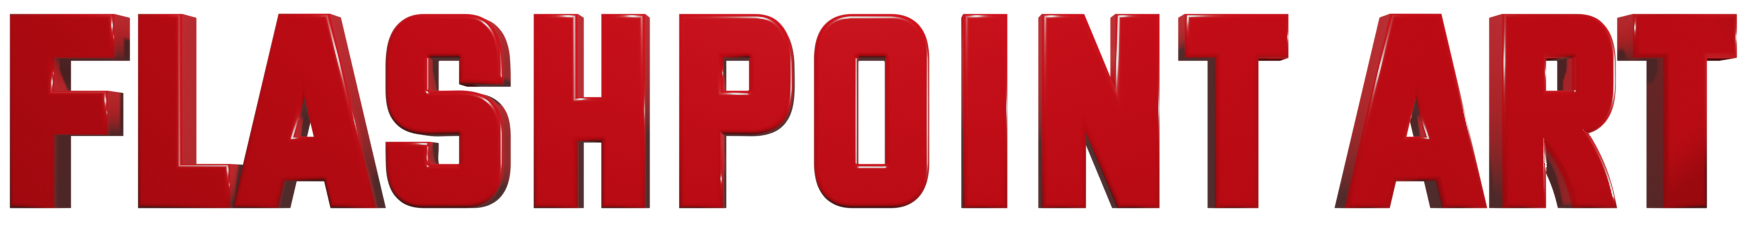
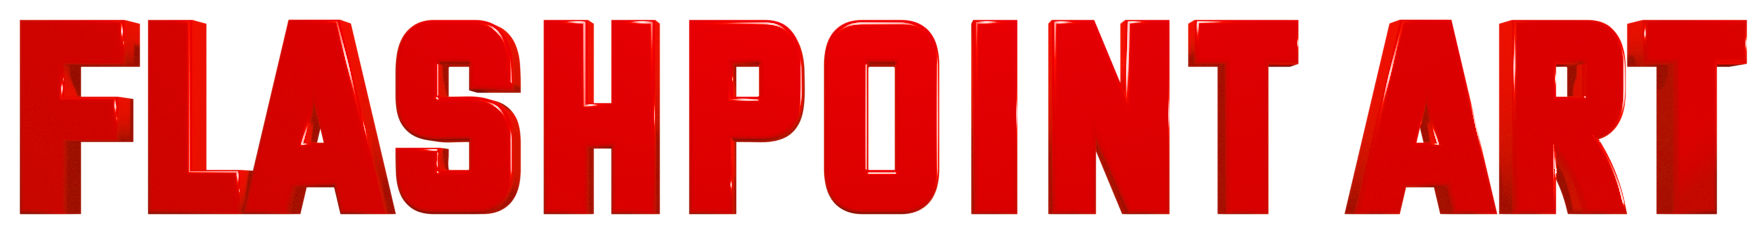
fix 3d

diff --git a/static/js/main.b19a4718.chunk.js b/static/js/main.b19a4718.chunk.js
@@ -1,0 +1,2 @@
+(this.webpackJsonpsito_simone=this.webpackJsonpsito_simone||[]).push([[0],{42:function(e,t,c){},43:function(e,t,c){},45:function(e,t,c){},57:function(e,t,c){"use strict";c.r(t);var n=c(0),s=c.n(n),i=c(14),r=c.n(i),a=(c(42),c(43),c(44),c(59)),l=c(60),j=c(61),o=c(16),b=(c(45),c(1)),d=function(){return Object(b.jsx)(a.a,{fluid:!0,style:{backgroundColor:"#00239C"},children:Object(b.jsxs)(a.a,{children:[Object(b.jsx)(l.a,{children:Object(b.jsx)(j.a,{className:"d-flex justify-content-center mt-5 mb-5 text-center",children:Object(b.jsx)("img",{src:"title.png",alt:"",id:"title"})})}),Object(b.jsxs)(l.a,{className:"pb-5",children:[Object(b.jsx)(j.a,{md:!0,className:"mb-3",children:Object(b.jsx)(o.b,{to:"/",style:{textDecoration:"none"},children:Object(b.jsx)("h6",{className:"text-center",children:"HOME"})})}),Object(b.jsx)(j.a,{md:!0,className:"mb-3",children:Object(b.jsx)(o.b,{to:"/artists",style:{textDecoration:"none"},children:Object(b.jsx)("h6",{className:"text-center",children:"ARTISTI"})})}),Object(b.jsx)(j.a,{md:!0,className:"mb-3",children:Object(b.jsx)(o.b,{to:"/about",style:{textDecoration:"none"},children:Object(b.jsx)("h6",{className:"text-center",children:"CHI SIAMO"})})}),Object(b.jsx)(j.a,{md:!0,children:Object(b.jsx)(o.b,{to:"/contacts",style:{textDecoration:"none"},children:Object(b.jsx)("h6",{className:"text-center",children:"CONTATTI"})})})]})]})})},h=c(6),x=c(24),O=c(8),m=c(25),u=c(26),p=c(63),g=c(64),f=c(62),w=function(){var e=Object(n.useState)({width:void 0,height:void 0}),t=Object(O.a)(e,2),c=t[0],s=t[1];return Object(n.useEffect)((function(){function e(){s({width:window.innerWidth,height:window.innerHeight})}return window.addEventListener("resize",e),e(),function(){return window.removeEventListener("resize",e)}}),[]),c},y=c(33),N=c.n(y),C=function(e){var t=Object(n.useState)(!1),c=Object(O.a)(t,2),s=c[0],i=c[1],r=w(),a=Object(n.useState)(!1),o=Object(O.a)(a,2),d=o[0],h=o[1],x=function(){return h(!1)};return Object(b.jsxs)(b.Fragment,{children:[Object(b.jsxs)(j.a,{className:"mb-4",children:[Object(b.jsx)(N.a,{toggler:s,sources:[e.element.imgSrc]}),Object(b.jsxs)(p.a,{style:{width:"20rem"},children:[Object(b.jsx)(p.a.Img,{onClick:function(){return i((function(e){return!e}))},variant:"top",src:e.element.imgSrc,style:r.width>975?{width:"100%",height:"12vw",objectFit:"cover",cursor:"pointer"}:{cursor:"pointer"}}),Object(b.jsxs)(p.a.Body,{children:[Object(b.jsx)(p.a.Title,{className:"mb-3 mt-3",children:Object(b.jsx)("h5",{children:e.element.title})}),Object(b.jsxs)(p.a.Text,{className:"d-flex justify-content-center",style:{flexDirection:"column"},children:[Object(b.jsxs)("h7",{className:"pb-3",children:["by ",e.element.artist]}),Object(b.jsxs)(g.a,{style:{backgroundColor:"#00239C"},onClick:function(){return h(!0)},className:"d-flex justify-content-center align-items-center",children:[Object(b.jsx)("h7",{style:{marginRight:"10px"},children:"Contatta ora"}),Object(b.jsx)(m.a,{icon:u.b,color:"white"})]})]})]})]})]}),Object(b.jsxs)(f.a,{show:d,onHide:x,size:"lg",centered:!0,style:{backgroundColor:"rgba(0,0,0,0.4)"},children:[Object(b.jsx)(f.a.Header,{children:Object(b.jsx)(f.a.Title,{children:"Contatti"})}),Object(b.jsxs)(f.a.Body,{children:[Object(b.jsx)(l.a,{children:Object(b.jsxs)(j.a,{className:"d-flex align-items-baseline",children:[Object(b.jsx)(m.a,{icon:u.a,color:"black"}),Object(b.jsx)("h7",{className:"mb-4 mt-4",style:{marginLeft:"20px"},children:"Email: test@gmail.com"})]})}),Object(b.jsx)(l.a,{children:Object(b.jsxs)(j.a,{className:"d-flex align-items-baseline",children:[Object(b.jsx)(m.a,{icon:u.c,color:"black"}),Object(b.jsx)("h7",{className:"mb-4 mt-4",style:{marginLeft:"20px"},children:"Whatsapp: +39 000 000 0000"})]})})]}),Object(b.jsx)(f.a.Footer,{children:Object(b.jsx)(g.a,{style:{backgroundColor:"#00239C"},onClick:x,children:"Chiudi"})})]})]})},S=function(){var e=Object(n.useState)([]),t=Object(O.a)(e,2),c=t[0],s=t[1],i=Object(n.useState)([]),r=Object(O.a)(i,2),d=r[0],h=r[1];return Object(n.useEffect)((function(){var e=[{title:"Quadro 1",price:130.25,artist:"Artist 1",imgSrc:"https://www.finasrl.it/wp-content/uploads/2015/12/img-test-300x225.jpg",id:0},{title:"Quadro 2",price:130.25,artist:"Artist 1",imgSrc:"https://www.finasrl.it/wp-content/uploads/2015/12/img-test-300x225.jpg",id:1},{title:"Quadro 3",price:130.25,artist:"Artist 2",imgSrc:"https://www.finasrl.it/wp-content/uploads/2015/12/img-test-300x225.jpg",id:2},{title:"Quadro 4",price:130.25,artist:"Artist 2",imgSrc:"https://www.finasrl.it/wp-content/uploads/2015/12/img-test-300x225.jpg",id:3},{title:"Quadro 5",price:130.25,artist:"Artist 3",imgSrc:"https://www.finasrl.it/wp-content/uploads/2015/12/img-test-300x225.jpg",id:4},{title:"Quadro 6",price:130.25,artist:"Artist 4",imgSrc:"https://www.finasrl.it/wp-content/uploads/2015/12/img-test-300x225.jpg",id:5}];s(e),h(Object(x.a)(new Set(e.map((function(e){return e.artist})))).sort())}),[]),Object(b.jsx)(a.a,{fluid:!0,style:{backgroundColor:"#fff",minHeight:"60vh"},className:"pb-5 pt-5",children:Object(b.jsx)(a.a,{children:Object(b.jsxs)(l.a,{children:[Object(b.jsxs)(j.a,{md:2,className:"mb-4",children:[Object(b.jsx)(l.a,{children:Object(b.jsx)("h3",{className:"mb-4",style:{color:"black"},children:"Index"})}),d.map((function(e,t){return Object(b.jsx)(o.b,{to:"/artists/"+e,style:{textDecorationColor:"black"},children:Object(b.jsx)(l.a,{children:Object(b.jsx)("h6",{className:"mb-3",style:{color:"black"},children:e})},t)})}))]}),Object(b.jsxs)(j.a,{md:10,children:[Object(b.jsx)(l.a,{children:Object(b.jsx)(j.a,{children:Object(b.jsx)("h3",{className:"mb-4",style:{color:"black"},children:"Shop"})})}),Object(b.jsx)(l.a,{className:"g-3",children:c.map((function(e,t){return Object(b.jsx)(C,{element:e},t)}))})]})]})})})},k=function(){return Object(b.jsx)(a.a,{fluid:!0,style:{backgroundColor:"#00239C"},children:Object(b.jsx)(a.a,{children:Object(b.jsx)(l.a,{children:Object(b.jsx)(j.a,{className:"d-flex justify-content-center",children:Object(b.jsx)("h7",{style:{margin:"80px",textAlign:"center",color:"#e10600"},children:"Copyright \xa9 2021 Flashpoint Art - P.IVA: 00000000000"})})})})})};var v=function(){return Object(b.jsxs)(o.a,{basename:"",children:[Object(b.jsx)(d,{}),Object(b.jsxs)(h.d,{children:[Object(b.jsx)(h.b,{exact:!0,path:"/",render:function(){return Object(b.jsx)(S,{})}}),Object(b.jsx)(h.b,{exact:!0,path:"/shop",render:function(){return Object(b.jsx)(S,{})}}),Object(b.jsx)(h.b,{children:Object(b.jsx)(h.a,{to:"/"})})]}),Object(b.jsx)(k,{})]})},A=function(e){e&&e instanceof Function&&c.e(3).then(c.bind(null,65)).then((function(t){var c=t.getCLS,n=t.getFID,s=t.getFCP,i=t.getLCP,r=t.getTTFB;c(e),n(e),s(e),i(e),r(e)}))};r.a.render(Object(b.jsx)(s.a.StrictMode,{children:Object(b.jsx)(v,{})}),document.getElementById("root")),A()}},[[57,1,2]]]);
+//# sourceMappingURL=main.b19a4718.chunk.js.map

diff --git a/index.html b/index.html
@@ -1,1 +1,1 @@
-<!doctype html><html lang="en"><head><meta charset="utf-8"/><link rel="icon" href="/favicon.ico"/><meta name="viewport" content="width=device-width,initial-scale=1"/><meta name="theme-color" content="#000000"/><meta name="description" content="Web site created using create-react-app"/><link rel="apple-touch-icon" href="/logo192.png"/><link rel="manifest" href="/manifest.json"/><title>Flashpoint Art</title><link href="/static/css/2.f2512455.chunk.css" rel="stylesheet"><link href="/static/css/main.f0098bf0.chunk.css" rel="stylesheet"></head><body><noscript>You need to enable JavaScript to run this app.</noscript><div id="root"></div><script>!function(e){function t(t){for(var n,i,a=t[0],c=t[1],l=t[2],f=0,p=[];f<a.length;f++)i=a[f],Object.prototype.hasOwnProperty.call(o,i)&&o[i]&&p.push(o[i][0]),o[i]=0;for(n in c)Object.prototype.hasOwnProperty.call(c,n)&&(e[n]=c[n]);for(s&&s(t);p.length;)p.shift()();return u.push.apply(u,l||[]),r()}function r(){for(var e,t=0;t<u.length;t++){for(var r=u[t],n=!0,a=1;a<r.length;a++){var c=r[a];0!==o[c]&&(n=!1)}n&&(u.splice(t--,1),e=i(i.s=r[0]))}return e}var n={},o={1:0},u=[];function i(t){if(n[t])return n[t].exports;var r=n[t]={i:t,l:!1,exports:{}};return e[t].call(r.exports,r,r.exports,i),r.l=!0,r.exports}i.e=function(e){var t=[],r=o[e];if(0!==r)if(r)t.push(r[2]);else{var n=new Promise((function(t,n){r=o[e]=[t,n]}));t.push(r[2]=n);var u,a=document.createElement("script");a.charset="utf-8",a.timeout=120,i.nc&&a.setAttribute("nonce",i.nc),a.src=function(e){return i.p+"static/js/"+({}[e]||e)+"."+{3:"d6a63553"}[e]+".chunk.js"}(e);var c=new Error;u=function(t){a.onerror=a.onload=null,clearTimeout(l);var r=o[e];if(0!==r){if(r){var n=t&&("load"===t.type?"missing":t.type),u=t&&t.target&&t.target.src;c.message="Loading chunk "+e+" failed.\n("+n+": "+u+")",c.name="ChunkLoadError",c.type=n,c.request=u,r[1](c)}o[e]=void 0}};var l=setTimeout((function(){u({type:"timeout",target:a})}),12e4);a.onerror=a.onload=u,document.head.appendChild(a)}return Promise.all(t)},i.m=e,i.c=n,i.d=function(e,t,r){i.o(e,t)||Object.defineProperty(e,t,{enumerable:!0,get:r})},i.r=function(e){"undefined"!=typeof Symbol&&Symbol.toStringTag&&Object.defineProperty(e,Symbol.toStringTag,{value:"Module"}),Object.defineProperty(e,"__esModule",{value:!0})},i.t=function(e,t){if(1&t&&(e=i(e)),8&t)return e;if(4&t&&"object"==typeof e&&e&&e.__esModule)return e;var r=Object.create(null);if(i.r(r),Object.defineProperty(r,"default",{enumerable:!0,value:e}),2&t&&"string"!=typeof e)for(var n in e)i.d(r,n,function(t){return e[t]}.bind(null,n));return r},i.n=function(e){var t=e&&e.__esModule?function(){return e.default}:function(){return e};return i.d(t,"a",t),t},i.o=function(e,t){return Object.prototype.hasOwnProperty.call(e,t)},i.p="/",i.oe=function(e){throw console.error(e),e};var a=this.webpackJsonpsito_simone=this.webpackJsonpsito_simone||[],c=a.push.bind(a);a.push=t,a=a.slice();for(var l=0;l<a.length;l++)t(a[l]);var s=c;r()}([])</script><script src="/static/js/2.f94461ac.chunk.js"></script><script src="/static/js/main.3986e087.chunk.js"></script></body></html>
+<!doctype html><html lang="en"><head><meta charset="utf-8"/><link rel="icon" href="/favicon.ico"/><meta name="viewport" content="width=device-width,initial-scale=1"/><meta name="theme-color" content="#000000"/><meta name="description" content="Web site created using create-react-app"/><link rel="apple-touch-icon" href="/logo192.png"/><link rel="manifest" href="/manifest.json"/><title>Flashpoint Art</title><link href="/static/css/2.f2512455.chunk.css" rel="stylesheet"><link href="/static/css/main.7b6cb0cb.chunk.css" rel="stylesheet"></head><body><noscript>You need to enable JavaScript to run this app.</noscript><div id="root"></div><script>!function(e){function t(t){for(var n,i,a=t[0],c=t[1],l=t[2],f=0,p=[];f<a.length;f++)i=a[f],Object.prototype.hasOwnProperty.call(o,i)&&o[i]&&p.push(o[i][0]),o[i]=0;for(n in c)Object.prototype.hasOwnProperty.call(c,n)&&(e[n]=c[n]);for(s&&s(t);p.length;)p.shift()();return u.push.apply(u,l||[]),r()}function r(){for(var e,t=0;t<u.length;t++){for(var r=u[t],n=!0,a=1;a<r.length;a++){var c=r[a];0!==o[c]&&(n=!1)}n&&(u.splice(t--,1),e=i(i.s=r[0]))}return e}var n={},o={1:0},u=[];function i(t){if(n[t])return n[t].exports;var r=n[t]={i:t,l:!1,exports:{}};return e[t].call(r.exports,r,r.exports,i),r.l=!0,r.exports}i.e=function(e){var t=[],r=o[e];if(0!==r)if(r)t.push(r[2]);else{var n=new Promise((function(t,n){r=o[e]=[t,n]}));t.push(r[2]=n);var u,a=document.createElement("script");a.charset="utf-8",a.timeout=120,i.nc&&a.setAttribute("nonce",i.nc),a.src=function(e){return i.p+"static/js/"+({}[e]||e)+"."+{3:"d6a63553"}[e]+".chunk.js"}(e);var c=new Error;u=function(t){a.onerror=a.onload=null,clearTimeout(l);var r=o[e];if(0!==r){if(r){var n=t&&("load"===t.type?"missing":t.type),u=t&&t.target&&t.target.src;c.message="Loading chunk "+e+" failed.\n("+n+": "+u+")",c.name="ChunkLoadError",c.type=n,c.request=u,r[1](c)}o[e]=void 0}};var l=setTimeout((function(){u({type:"timeout",target:a})}),12e4);a.onerror=a.onload=u,document.head.appendChild(a)}return Promise.all(t)},i.m=e,i.c=n,i.d=function(e,t,r){i.o(e,t)||Object.defineProperty(e,t,{enumerable:!0,get:r})},i.r=function(e){"undefined"!=typeof Symbol&&Symbol.toStringTag&&Object.defineProperty(e,Symbol.toStringTag,{value:"Module"}),Object.defineProperty(e,"__esModule",{value:!0})},i.t=function(e,t){if(1&t&&(e=i(e)),8&t)return e;if(4&t&&"object"==typeof e&&e&&e.__esModule)return e;var r=Object.create(null);if(i.r(r),Object.defineProperty(r,"default",{enumerable:!0,value:e}),2&t&&"string"!=typeof e)for(var n in e)i.d(r,n,function(t){return e[t]}.bind(null,n));return r},i.n=function(e){var t=e&&e.__esModule?function(){return e.default}:function(){return e};return i.d(t,"a",t),t},i.o=function(e,t){return Object.prototype.hasOwnProperty.call(e,t)},i.p="/",i.oe=function(e){throw console.error(e),e};var a=this.webpackJsonpsito_simone=this.webpackJsonpsito_simone||[],c=a.push.bind(a);a.push=t,a=a.slice();for(var l=0;l<a.length;l++)t(a[l]);var s=c;r()}([])</script><script src="/static/js/2.f94461ac.chunk.js"></script><script src="/static/js/main.b19a4718.chunk.js"></script></body></html>

diff --git a/static/css/main.7b6cb0cb.chunk.css b/static/css/main.7b6cb0cb.chunk.css
@@ -1,0 +1,2 @@
+@import url(https://fonts.googleapis.com/css2?family=Bebas+Neue&display=swap);@import url(https://fonts.googleapis.com/css2?family=Montserrat:wght@300;500&display=swap);body{margin:0;font-family:-apple-system,BlinkMacSystemFont,"Segoe UI","Roboto","Oxygen","Ubuntu","Cantarell","Fira Sans","Droid Sans","Helvetica Neue",sans-serif;-webkit-font-smoothing:antialiased;-moz-osx-font-smoothing:grayscale}code{font-family:source-code-pro,Menlo,Monaco,Consolas,"Courier New",monospace}*{margin:0;padding:0;box-sizing:border-box;font-family:"Montserrat",sans-serif}.text-center{text-align:center}h1,h3,h6{color:#e10600;font-weight:900}h1{font-family:"Bebas Neue",cursive}#title{width:auto;height:5vh}
+/*# sourceMappingURL=main.7b6cb0cb.chunk.css.map */
